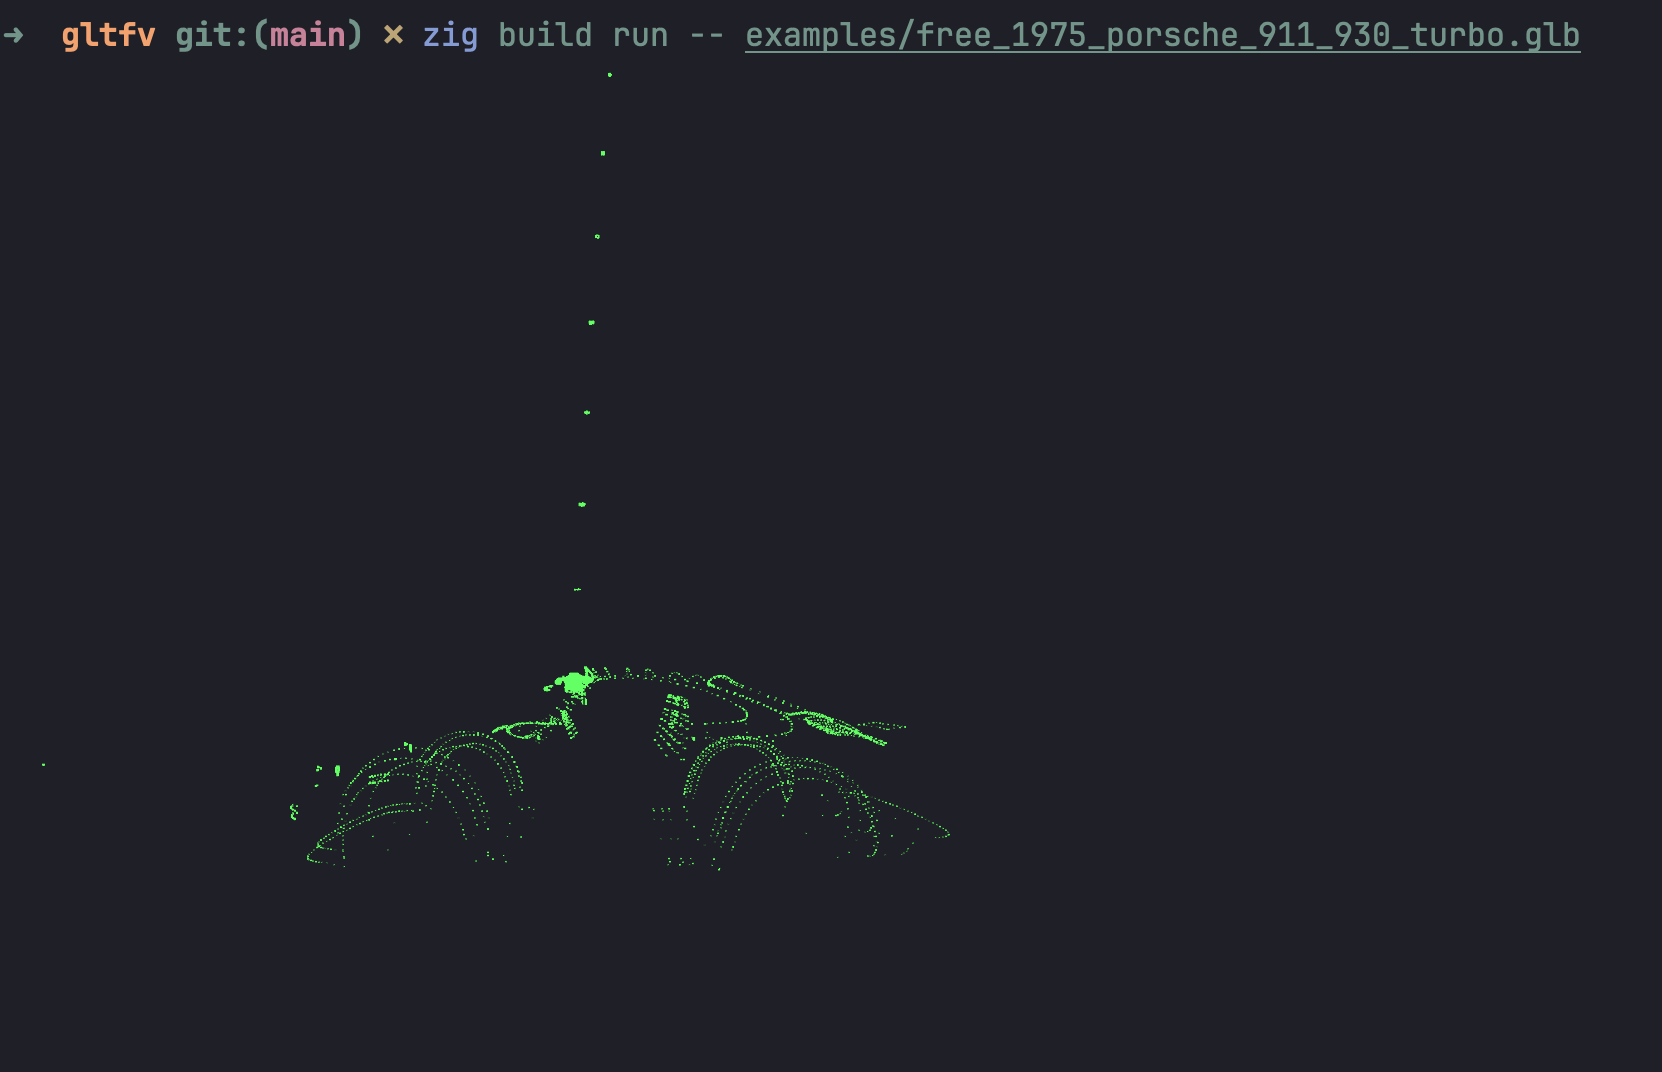
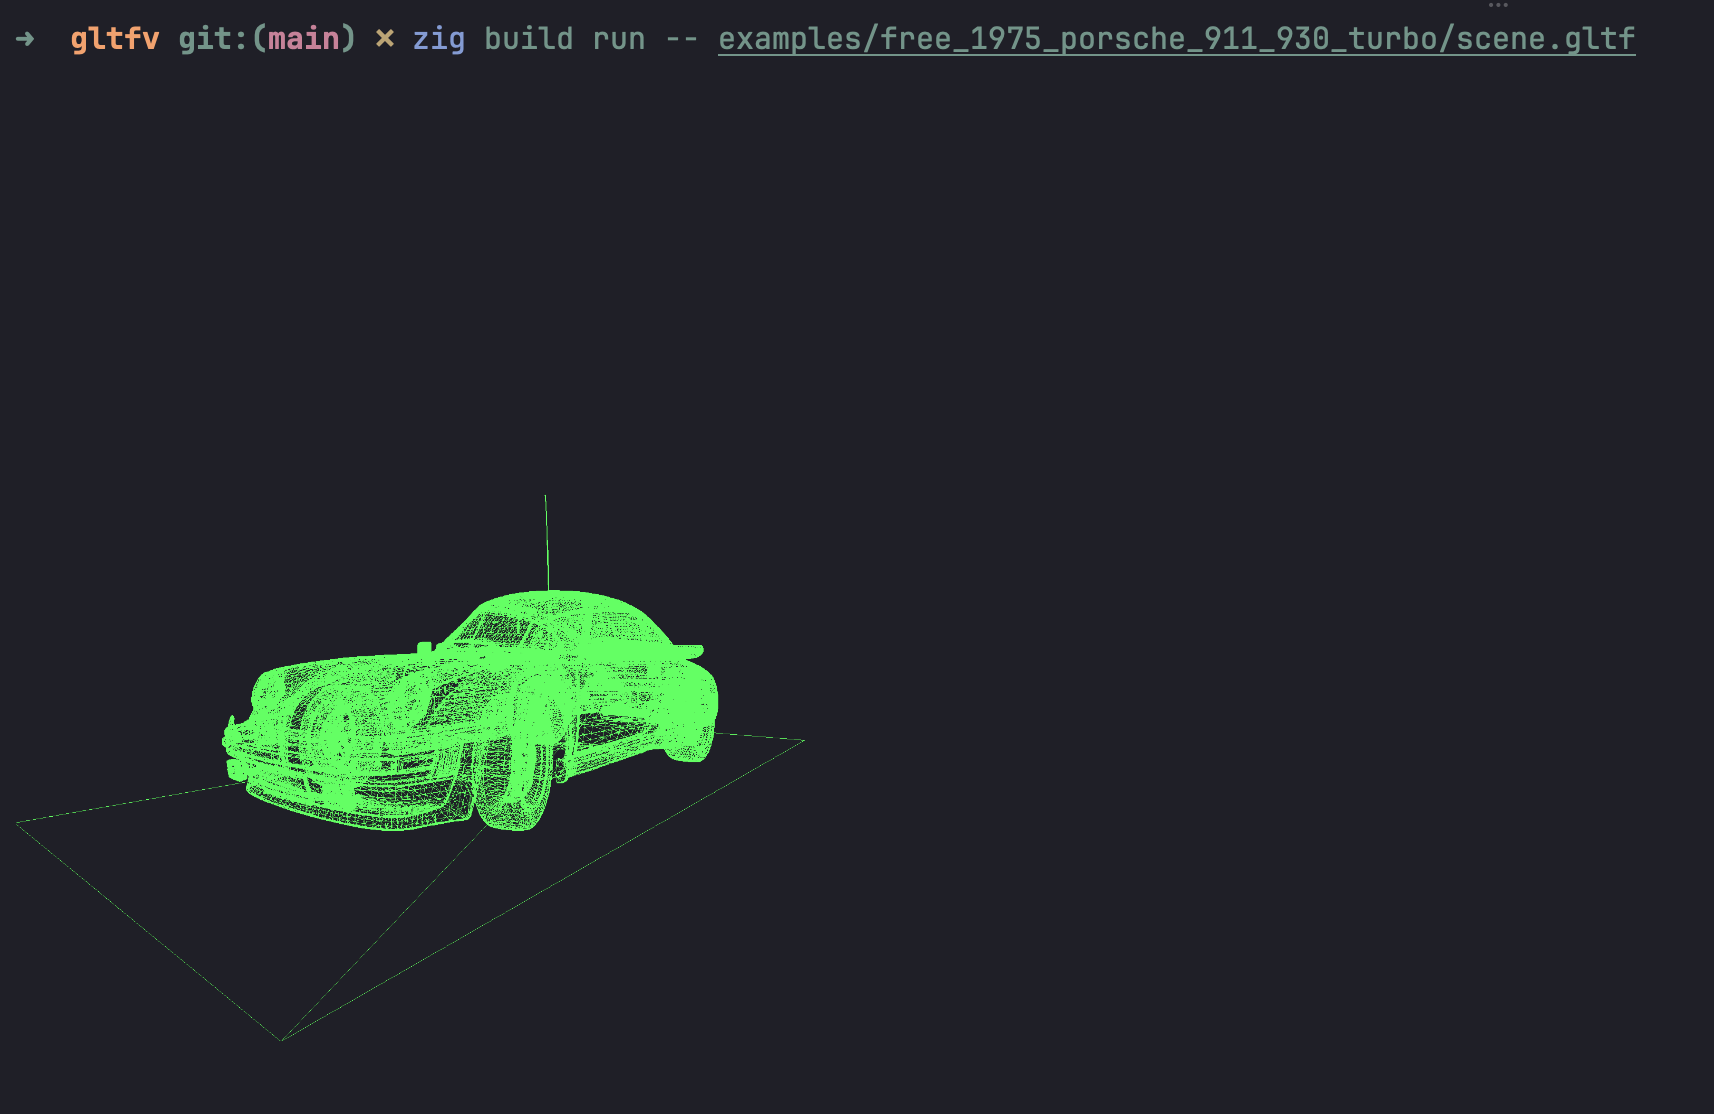
Update README.md and LICENSE

Changed region(s): [[0.1227, 0.5233, 0.5217, 0.7696], [0.0, 0.0, 0.9513, 0.0616], [0.4603, 0.708, 0.491, 0.7388]]

diff --git a/README.md b/README.md
@@ -1,8 +1,7 @@
 # glTF Viewer for the terminal
 
-Renders glTF to the terminal using the [Kitty graphics protocol](https://sw.kovidgoyal.net/kitty/graphics-protocol). (well, not yet)
+Renders glTF models (so far just the wireframe) to the terminal using the [Kitty graphics protocol](https://sw.kovidgoyal.net/kitty/graphics-protocol)
 
-[zgltf](https://github.com/kooparse/zgltf/) is used for parsing the models, just made some minor changes to make it work
-with zig 0.16.0
+[zgltf](https://github.com/kooparse/zgltf/) is used for parsing the glTF models
 
 ![current state](images/screenshot.png)